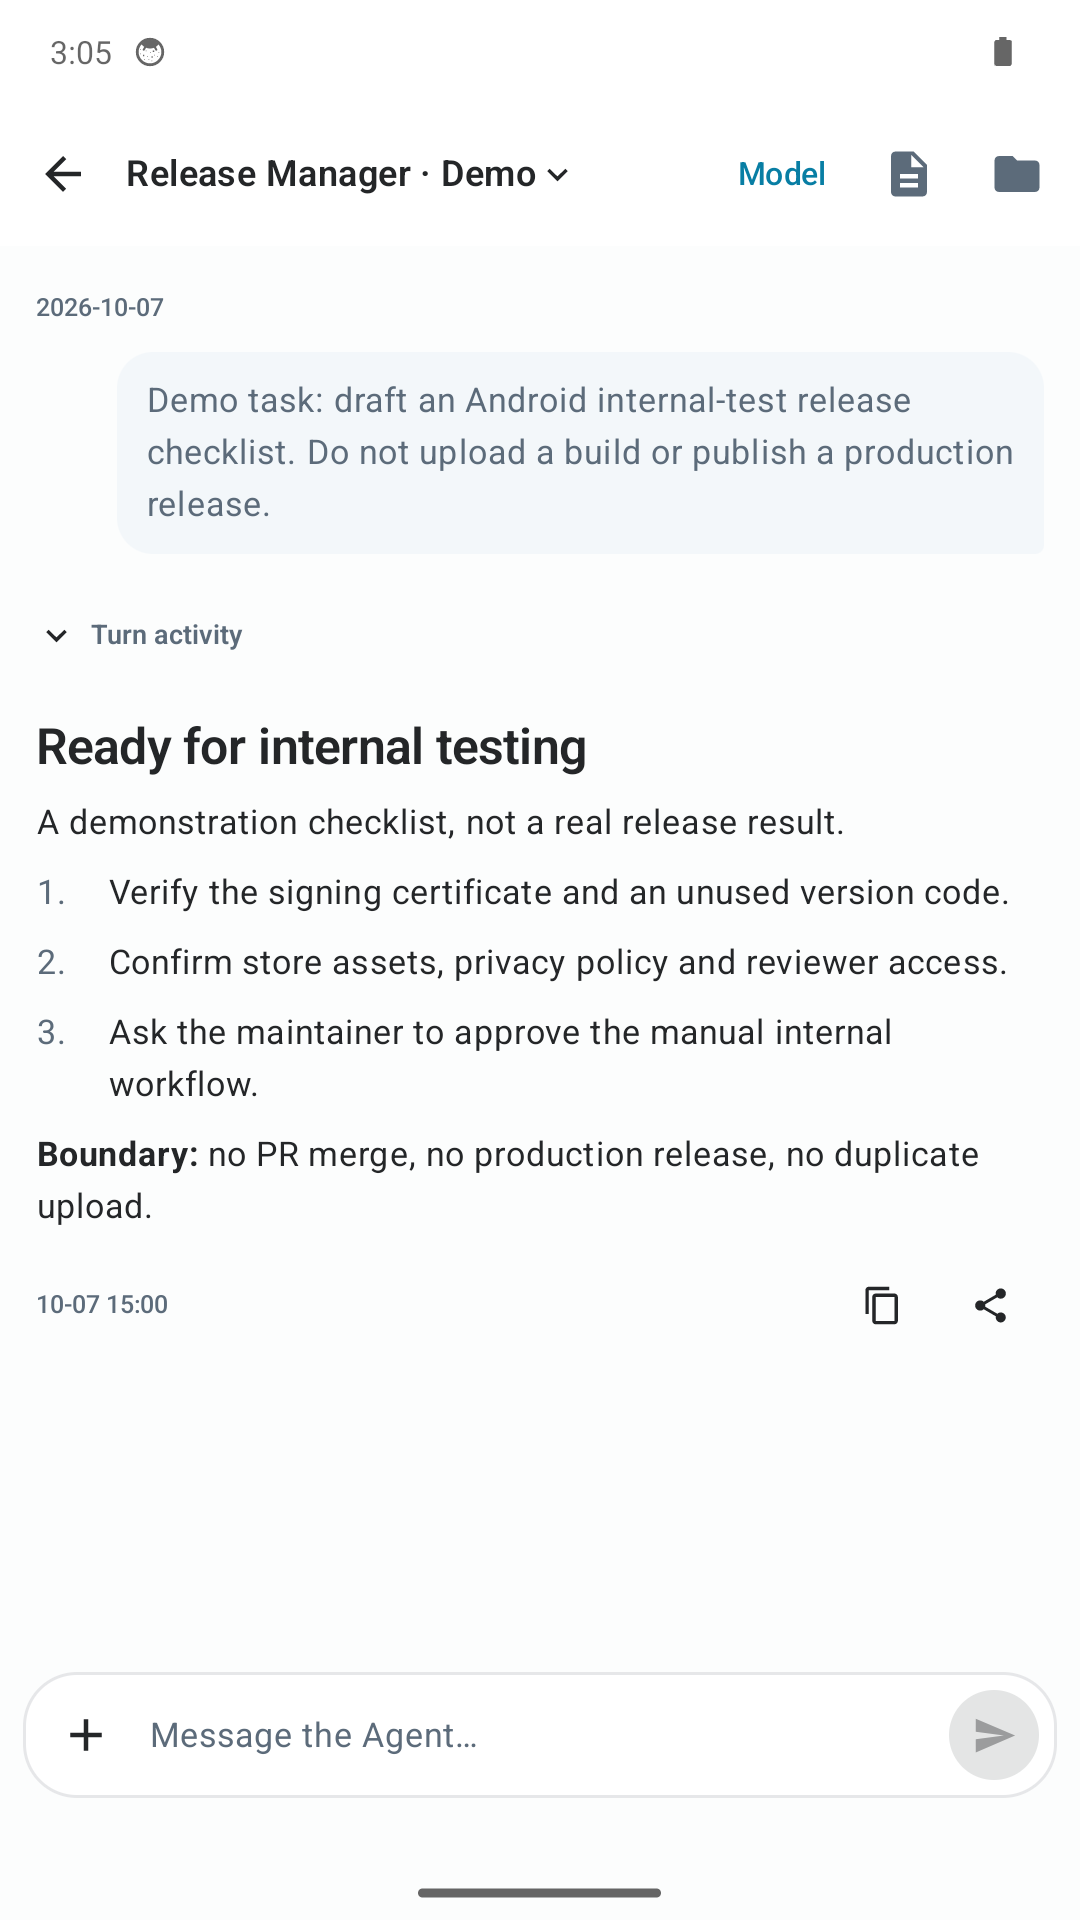
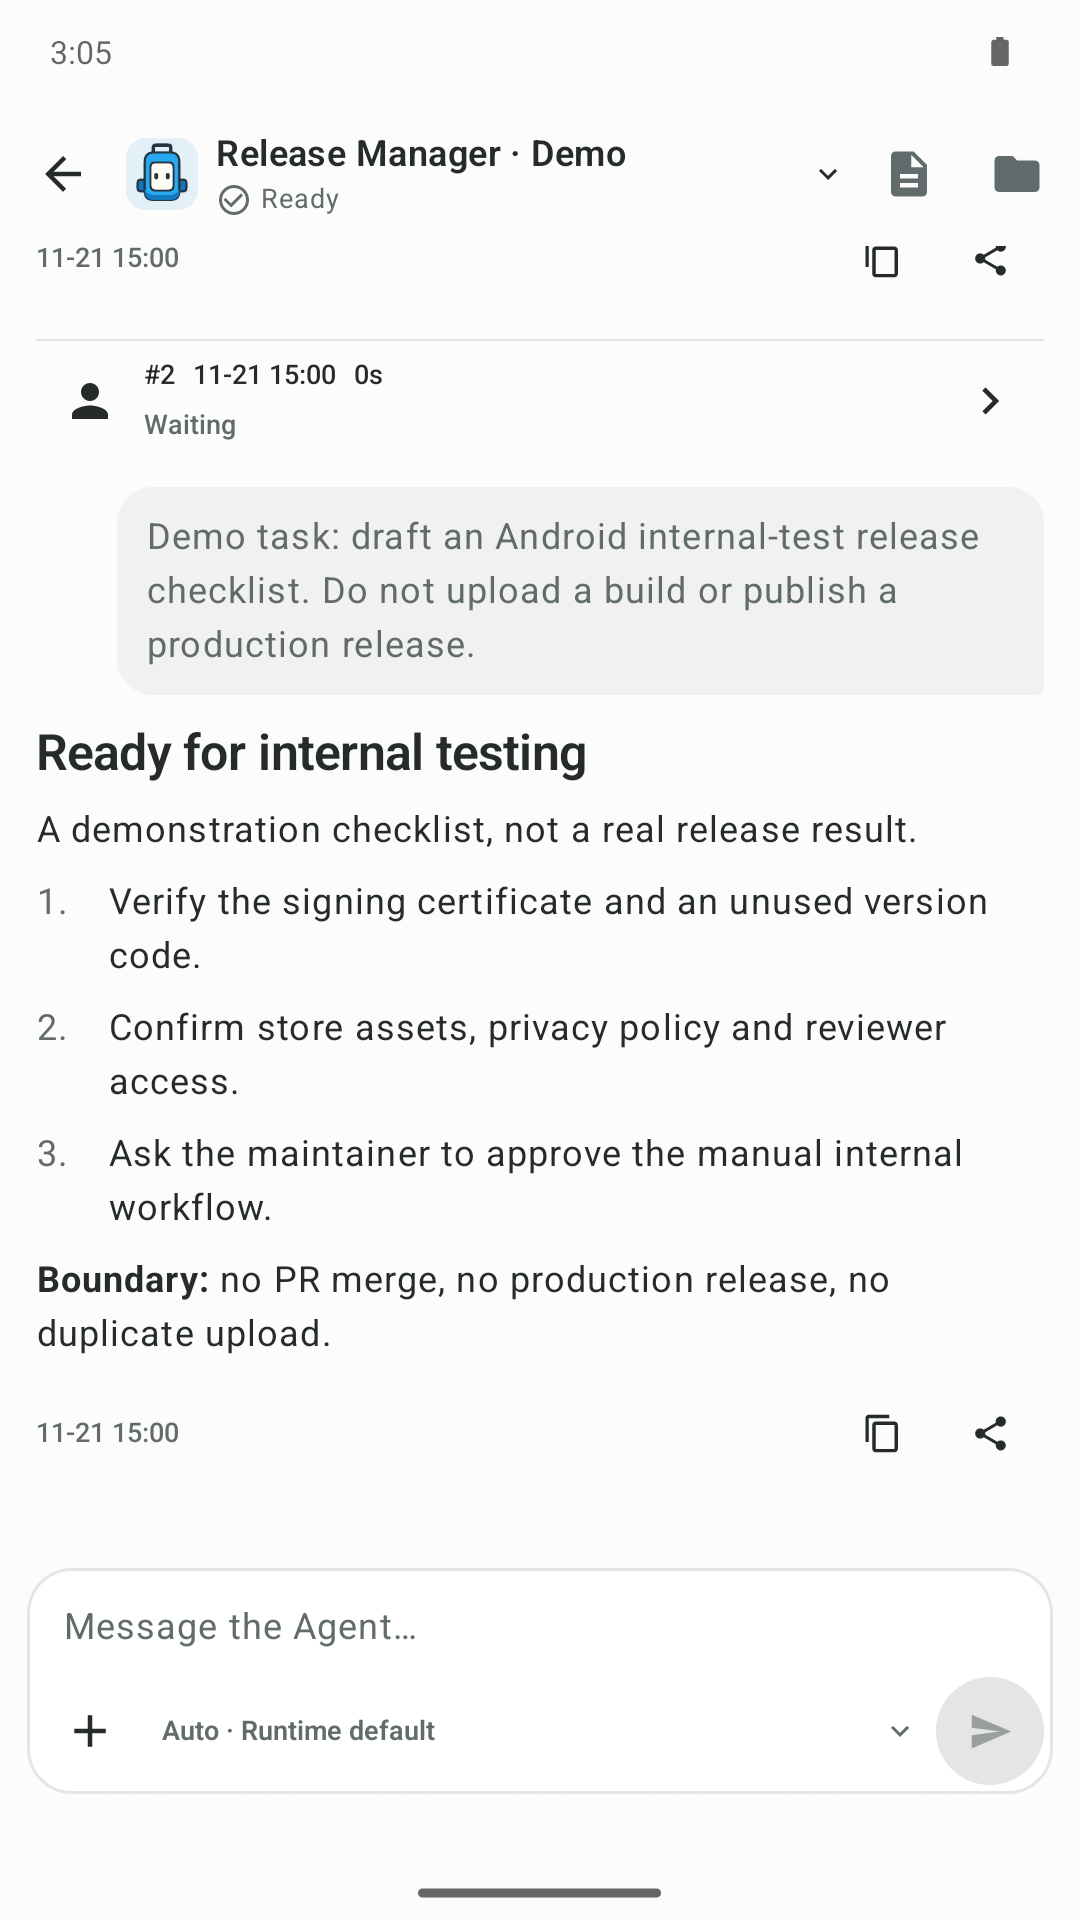
docs(android): refresh en-US store screenshots for the current UI (#4374)
* fix(android): label operator-waiting work items and localize update-check copy

* fix(scripts): wait out demo bootstrap turns when capturing Android store assets

* docs(android): refresh en-US store screenshots for the 0.60 UI

---------

diff --git a/apps/android/app/src/main/kotlin/run/holon/android/app/UiCopy.kt b/apps/android/app/src/main/kotlin/run/holon/android/app/UiCopy.kt
@@ -115,6 +115,8 @@ internal object UiCopy {
         更新|Update
         通过 Google Play 检查新版本。|Check Google Play for updates.
         可从 GitHub Release 检查新版本。|Check GitHub Releases for updates.
+        检查更新|Check for updates
+        检查中…|Checking…
         Google Play 有可用更新。|An update is available on Google Play.
         Google Play 暂无可用更新。|No update is currently available to you on Google Play.
         打开 Google Play|Open Google Play

diff --git a/apps/android/app/src/main/kotlin/run/holon/android/app/ScreenComponents.kt b/apps/android/app/src/main/kotlin/run/holon/android/app/ScreenComponents.kt
@@ -141,6 +141,7 @@ internal fun workItemStatusLabel(item: HolonWorkItemSnapshot): String =
         item.state == "completed" -> ui("已完成")
         item.readiness == "ready" -> ui("可继续")
         item.schedulingState == "waiting" -> ui("等待中")
+        item.readiness == "waiting_for_operator" || item.schedulingState == "waiting_operator" -> ui("需要回应")
         else -> item.readiness ?: item.state
     }
 

diff --git a/scripts/android-store-demo.py b/scripts/android-store-demo.py
@@ -120,6 +120,10 @@ def seed_demo_files(home):
 class DemoProvider(BaseHTTPRequestHandler):
     """A loopback-only Responses transport serving disclosed, scripted text."""
 
+    completed = 0
+    in_flight = 0
+    lock = threading.Lock()
+
     def log_message(self, *_args):
         pass
 
@@ -133,6 +137,16 @@ class DemoProvider(BaseHTTPRequestHandler):
         self.wfile.write(body)
 
     def do_POST(self):
+        with DemoProvider.lock:
+            DemoProvider.in_flight += 1
+        try:
+            self._do_post()
+        finally:
+            with DemoProvider.lock:
+                DemoProvider.in_flight -= 1
+                DemoProvider.completed += 1
+
+    def _do_post(self):
         print(f"Scripted provider request: {self.path}", flush=True)
         if self.path != "/v1/responses":
             self.send_error(404)
@@ -236,7 +250,10 @@ def main():
                 headers={"Authorization": f"Bearer {token}",
                          "Content-Type": "application/json"},
             )
-            with urlopen(request, timeout=10) as response:
+            # Synchronous control prompts run whole agent turns, including
+            # tool execution and follow-up provider calls; recent daemons can
+            # legitimately exceed 10s before the HTTP response returns.
+            with urlopen(request, timeout=60) as response:
                 return json.load(response)
 
         try:
@@ -252,7 +269,24 @@ def main():
                         raise RuntimeError("demo daemon did not become ready")
                     stopped.wait(0.25)
             for agent_id, name, prompt, _result in SCENARIOS:
+                with DemoProvider.lock:
+                    before = DemoProvider.completed
                 api(f"/control/agents/{agent_id}/create", {"name": name})
+                # Creation schedules a background bootstrap turn. Prompting
+                # while it is still in flight wedges the synchronous control
+                # prompt on current daemons, so wait for the bootstrap turn's
+                # provider call to finish and the provider to stay quiet.
+                quiet_streak = 0
+                deadline = time.monotonic() + 30
+                while quiet_streak < 2:
+                    with DemoProvider.lock:
+                        quiet = (DemoProvider.completed > before
+                                 and DemoProvider.in_flight == 0)
+                    quiet_streak = quiet_streak + 1 if quiet else 0
+                    if time.monotonic() > deadline:
+                        raise RuntimeError(
+                            f"bootstrap for {agent_id} did not settle")
+                    stopped.wait(0.25)
                 api(f"/control/agents/{agent_id}/prompt", {"text": prompt})
             seed_demo_files(args.home)
             print(f"Demo ready: http://127.0.0.1:{args.port}/api", flush=True)

diff --git a/apps/android/play/README.md b/apps/android/play/README.md
@@ -7,7 +7,7 @@ UI matches these captures before submitting them.
 ## Files and provenance
 
 - `en-US/screenshots/`: eight original, unretouched `adb exec-out screencap -p`
-  captures, 1080 × 1920 PNG, taken on October 7, 2026.
+  captures, 1080 × 1920 PNG, taken on November 21, 2026.
 - `en-US/graphics/icon.png`: 512 × 512 PNG, derived from the Android adaptive
   launcher paths and colors. Editable source: `icon.svg` in the same directory.
 - `en-US/graphics/feature-graphic.png`: 1024 × 500 PNG. Editable source:
@@ -17,20 +17,20 @@ UI matches these captures before submitting them.
 
 The capture device is a dedicated Android 14 (API 34) Google APIs arm64
 emulator, with a 1080 × 1920 display and density 360. The client is a debug
-development build of version 0.48.0, including the privacy entry in this change.
-It is **not** a capture of the already-published Play build. UI, agent names and
-messages are English. Light/dark themes are Android's actual system themes.
+development build of version 0.60.0, including the agent avatars and the
+required per-agent status icons. It is **not** a capture of the
+already-published Play build. UI, agent names and messages are English.
+Light/dark themes are Android's actual system themes.
 
-The backend is a real Holon 0.48.0 daemon in an independent home, bound only to
+The backend is a real Holon 0.59.0 daemon in an independent home, bound only to
 loopback. Four named demo agents and their operator messages/result briefs are
 persisted through the normal runtime APIs. A local, scripted Responses provider
 supplies disclosed demonstration drafts: **no real model inference, production
 work, cloud uploads or personal conversations are represented.** Each agent
-name/content identifies the demonstration. A fifth default `demo-studio` agent
-welcomes users to the capture environment.
+name/content identifies the demonstration.
 
-The WorkItem and file-browser captures were added in a second isolated run.
-The scripted provider calls the real `CreateWorkItem` tool to persist the
+The WorkItem and file-browser captures come from the same capture run. The
+scripted provider calls the real `CreateWorkItem` tool to persist the
 sample objective, checklist and plan; `needs_input` prevents an actual release
 from running. The four sample files in `AgentHome / work / store-demo` are
 written by the capture script and read through the normal authorized file API.
@@ -43,7 +43,7 @@ was used for presentation; in-app times remain the actual capture times.
 ## Gallery
 
 ### Agent roster — light
-![Five demo agents with real persisted result previews](en-US/screenshots/01-agents.png)
+![Four demo agents with avatars, status icons and real persisted result previews](en-US/screenshots/01-agents.png)
 
 ### Internal-test checklist
 ![Release Manager demonstration conversation](en-US/screenshots/02-release-conversation.png)
